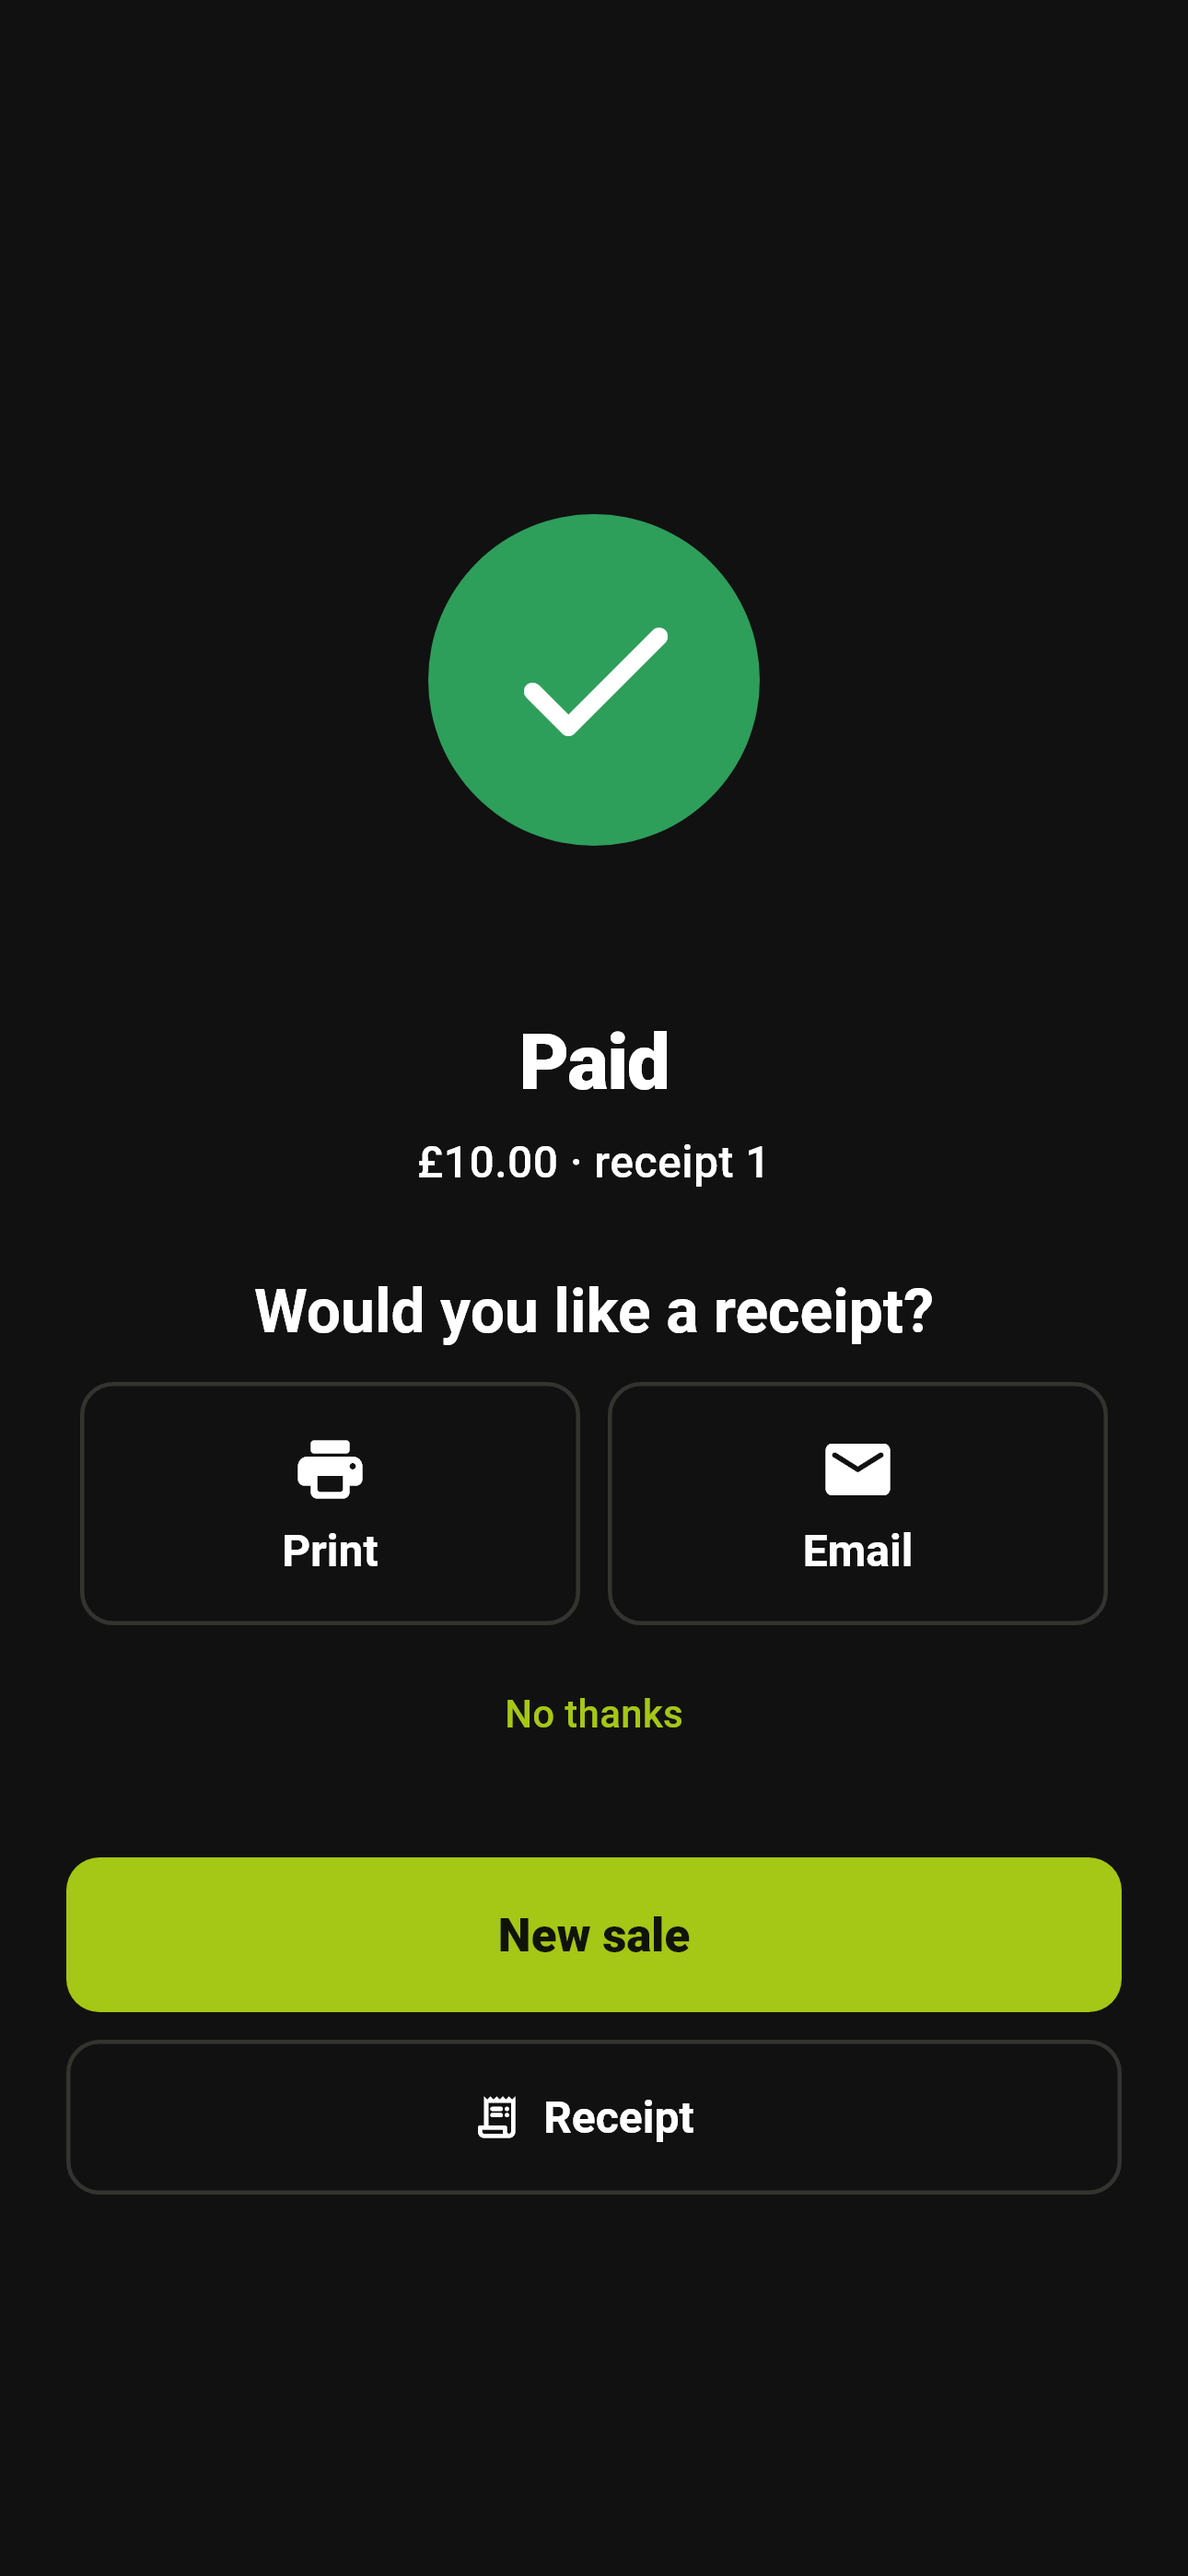
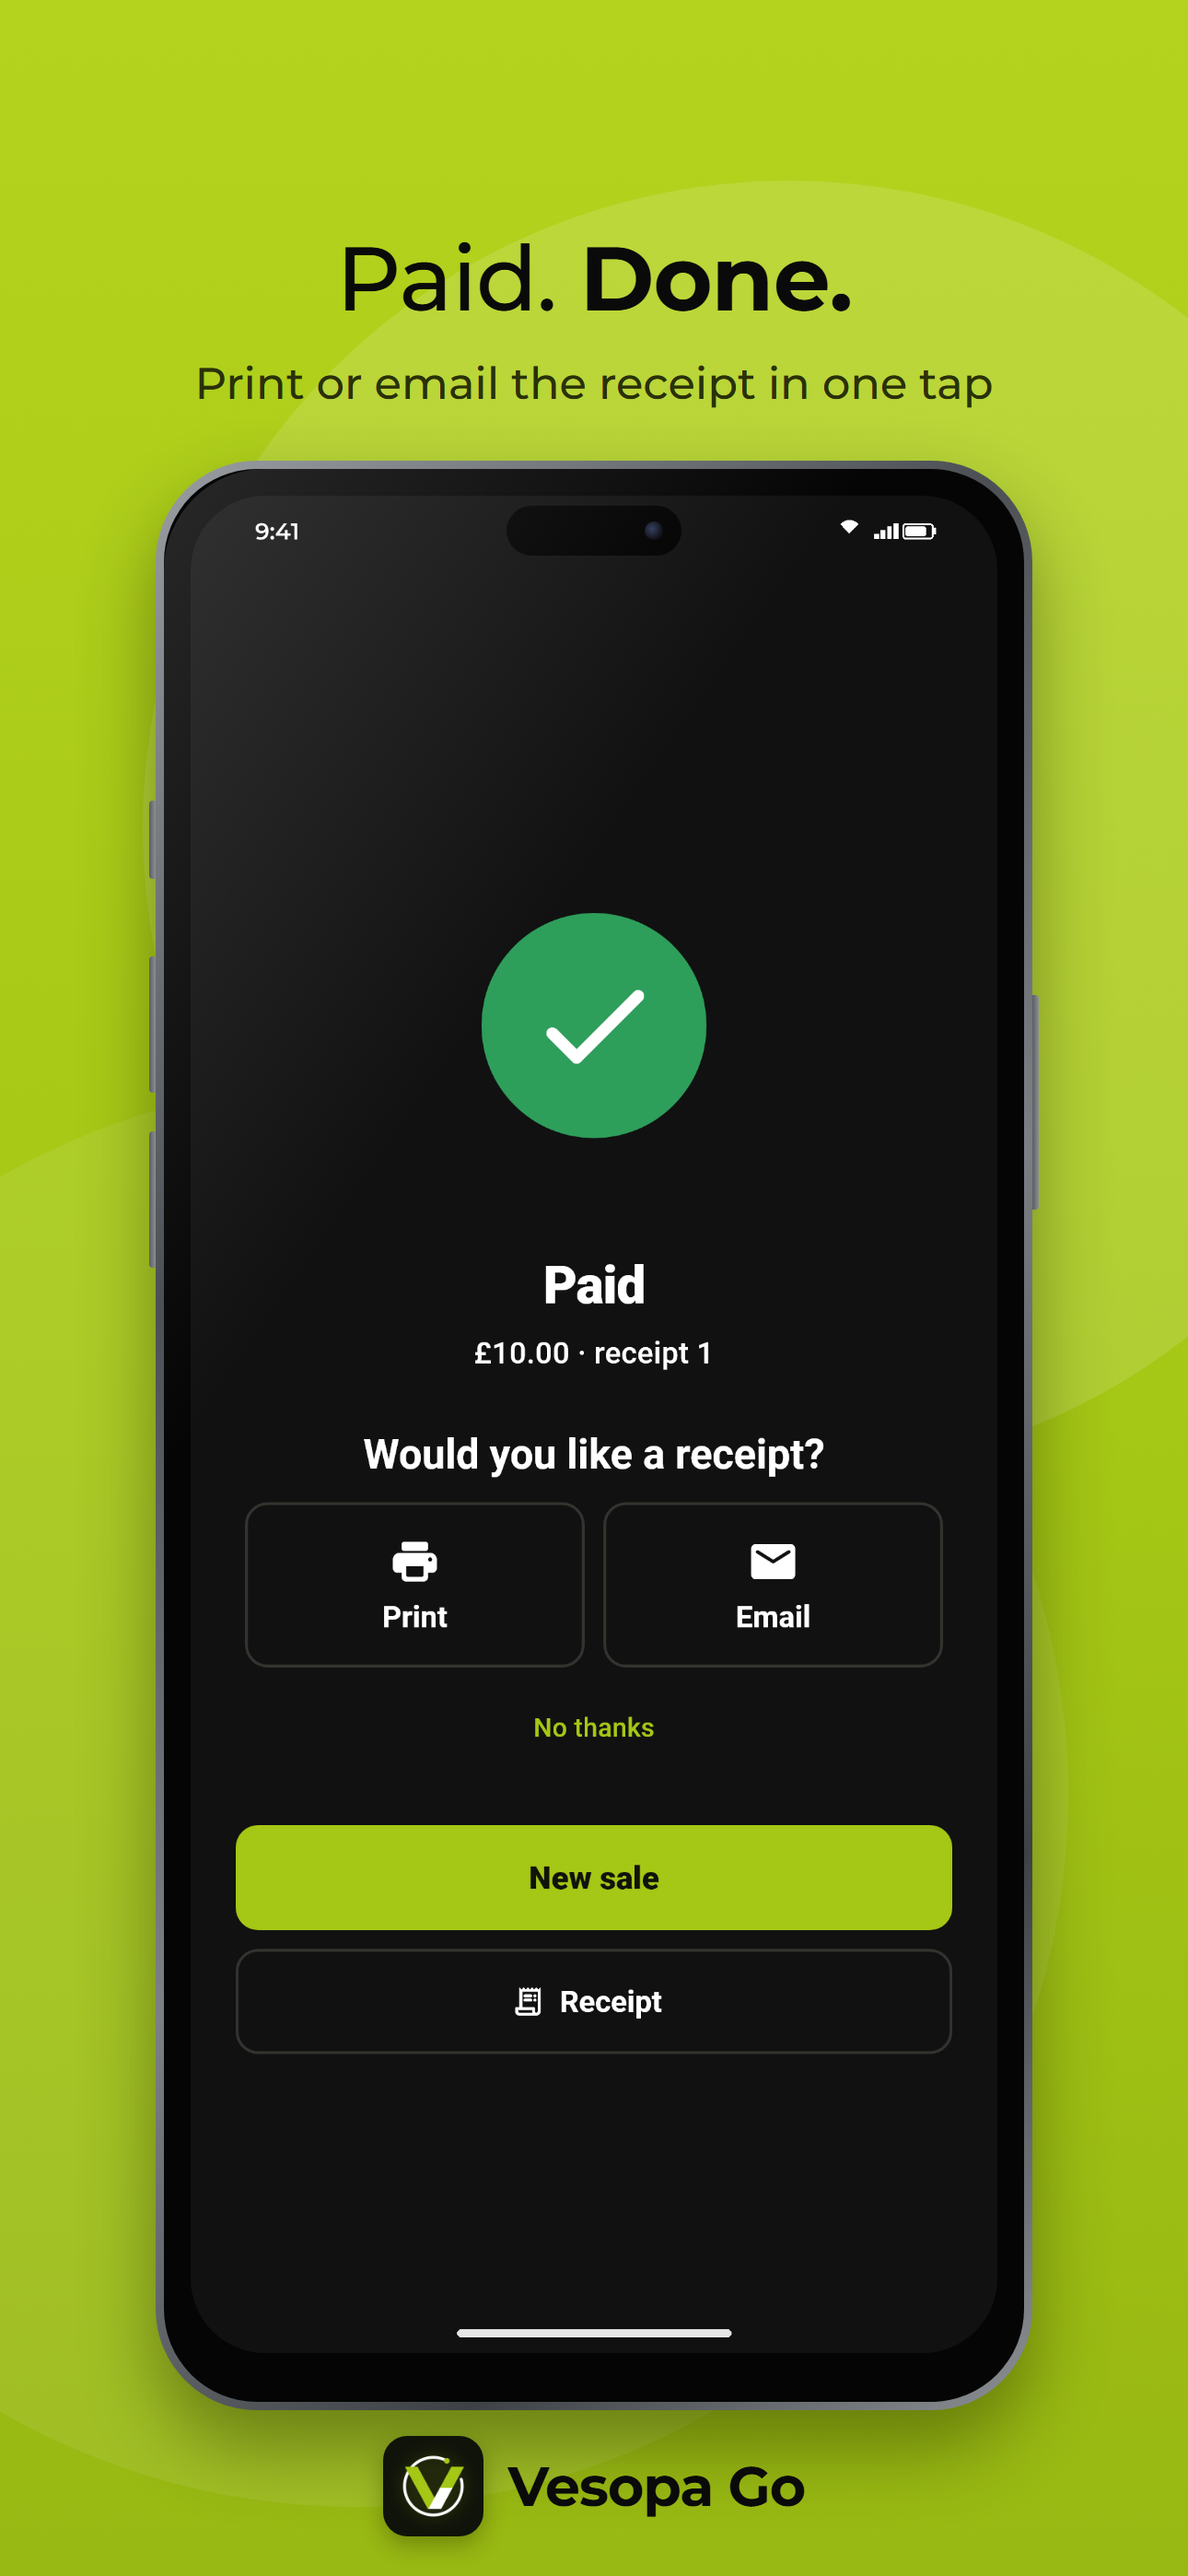
Vesopa Go App Store iPhone screenshots: the same five headlines in a 6.9-inch iPhone frame (1290x2796), in store/screenshots/iphone-6.9 for the App Store page; the plain screens move to store/raw-screens-iphone-6.9

diff --git a/vesopa_go/tool/make_store_shots.py b/vesopa_go/tool/make_store_shots.py
@@ -2,6 +2,7 @@
 
     python tool/make_store_shots.py android
     python tool/make_store_shots.py ipad      # 13-inch iPad, landscape, 2732x2048
+    python tool/make_store_shots.py iphone    # 6.9-inch iPhone, 1290x2796
 
 Real app screens from store/screenshots/<device>/ go into a phone frame under a
 headline, on the Vesopa brand ground (black, lime light), headline in
@@ -34,13 +35,18 @@ DEVICES = {
     "android": dict(W=1080, H=1920, src="android-phone", frame_w=740, radius=92, bezel=24),
     # App Store 13-inch iPad, landscape; the headline and lockup scaled up to match
     "ipad": dict(W=2732, H=2048, src="ipad-13", radius=70, bezel=34, tablet=True, k=1.45, head=400, foot=200),
+    # App Store 6.9-inch iPhone: the phone's layout at 1290/1080 of its size.
+    # Its screens are already tall, so its status and home bars are thinner.
+    "iphone": dict(W=1290, H=2796, src="iphone-6.9", radius=110, bezel=29, k=1.19, head=500, foot=180,
+                   bars=(.085, .05)),
 }
 
 
 # Screens that show a staff member's initials: (device, shot) -> avatar circle
 # centre x, y and radius in the screenshot's pixels. A brand badge covers it.
 AVATARS = {("android-phone", "01-sale"): [(998.5, 83.5, 46, "circle"), (213, 82, 45, "box")],
-           ("ipad-13", "01-sale"): [(2532.5, 56, 30, "circle"), (143.5, 55.5, 31.5, "box")]}
+           ("ipad-13", "01-sale"): [(2532.5, 56, 30, "circle"), (143.5, 55.5, 31.5, "box")],
+           ("iphone-6.9", "01-sale"): [(1208.5, 83.5, 45, "circle"), (215.5, 83.5, 47.5, "box")]}
 
 
 # Product photos laid onto the screenshot's own tiles, as the app draws a tile
@@ -65,6 +71,14 @@ PHOTOS = {("android-phone", "01-sale"): [
     ((792, 636, 1099, 937), "coca-cola.png", "#FFFFFF", "Coca-Cola", "£2.50", .8),
     ((1115, 636, 1422, 937), "40bf993b-bb19-442b-ba0f-d2560964607a.png", "#FFFFFF", "Diet Coke", "£2.50", .8),
     ((1438, 636, 1745, 937), "lemonade.jpg", "cover", "Lemonade", "£2.30", .8),
+], ("iphone-6.9", "01-sale"): [  # the phone's 3-wide grid at the iPhone's size
+    ((446, 480, 843, 822), "f9046f88-adb8-43f2-99c7-d03505dfe7eb.png", "#FFFFFF", "Carling ½", "£6.05", 1.19),
+    ((868, 480, 1265, 822), "048d0e79-413f-477a-9ecd-07b24b302489.png", "#0B0B0B", "Guinness", "£3.00", 1.19),
+    ((446, 846, 843, 1188), "e04f4376-1bd5-46f7-8503-e07d59277091.png", "#FFFFFF", "Peroni", "£5.00", 1.19),
+    ((868, 846, 1265, 1188), "food.jpg", "cover", "FOOD", "›››", 1.19),
+    ((24, 1212, 421, 1554), "coca-cola.png", "#FFFFFF", "Coca-Cola", "£2.50", 1.19),
+    ((446, 1212, 843, 1554), "40bf993b-bb19-442b-ba0f-d2560964607a.png", "#FFFFFF", "Diet Coke", "£2.50", 1.19),
+    ((868, 1212, 1265, 1554), "lemonade.jpg", "cover", "Lemonade", "£2.30", 1.19),
 ]}
 ROBOTO = pathlib.Path("C:/Users/azureuser/develop/flutter/bin/cache/artifacts/material_fonts")
 
@@ -103,7 +117,7 @@ def _photo_tile(im, box, url, ground, name, price, k=1.0):
     return im
 
 
-def screen_file(src, shot, tablet=False):
+def screen_file(src, shot, tablet=False, bars=None):
     """The screenshot, with product photos on their tiles and any staff
     initials replaced by the Vesopa V."""
     from PIL import Image
@@ -116,19 +130,20 @@ def screen_file(src, shot, tablet=False):
         im = _photo_tile(im, *args)
     for cx, cy, r, shape in AVATARS.get((src, shot), []):
         im = _badge(im, cx, cy, r, shape)
-    im = _tall(im, tablet)
+    im = _tall(im, tablet, bars)
     out = pathlib.Path(R.tempfile.mkdtemp(prefix="vesopa-logo-shot-")) / f"{shot}.png"
     im.save(out)
     return out
 
 
-def _tall(im, tablet=False):
+def _tall(im, tablet=False, bars=None):
     """A modern tall phone screen: a status bar above the app, the gesture bar
     below it, in the app's own top and bottom colours. An iPad's bars are the
     same, only thinner for its width."""
     from PIL import Image, ImageDraw, ImageFont
     w, h = im.size
-    top, bottom = (int(w * .026), int(w * .016)) if tablet else (int(w * .12), int(w * .09))
+    tb = bars or ((.026, .016) if tablet else (.12, .09))
+    top, bottom = int(w * tb[0]), int(w * tb[1])
     out = Image.new("RGBA", (w, h + top + bottom), im.getpixel((3, 2)))
     out.paste(Image.new("RGBA", (w, bottom), im.getpixel((3, h - 3))), (0, h + top))
     out.alpha_composite(im, (0, top))
@@ -199,7 +214,7 @@ def page(shot, title, sub, d, i):
     head = d.get("head", 420)  # headline zone, the same on every frame so the devices line up
     foot = d.get("foot", 150)
     tablet = d.get("tablet", False)
-    scr_path = screen_file(d["src"], shot, tablet)
+    scr_path = screen_file(d["src"], shot, tablet, d.get("bars"))
     scr = scr_path.as_uri()
     # the screen's own aspect decides the frame's height
     from PIL import Image
